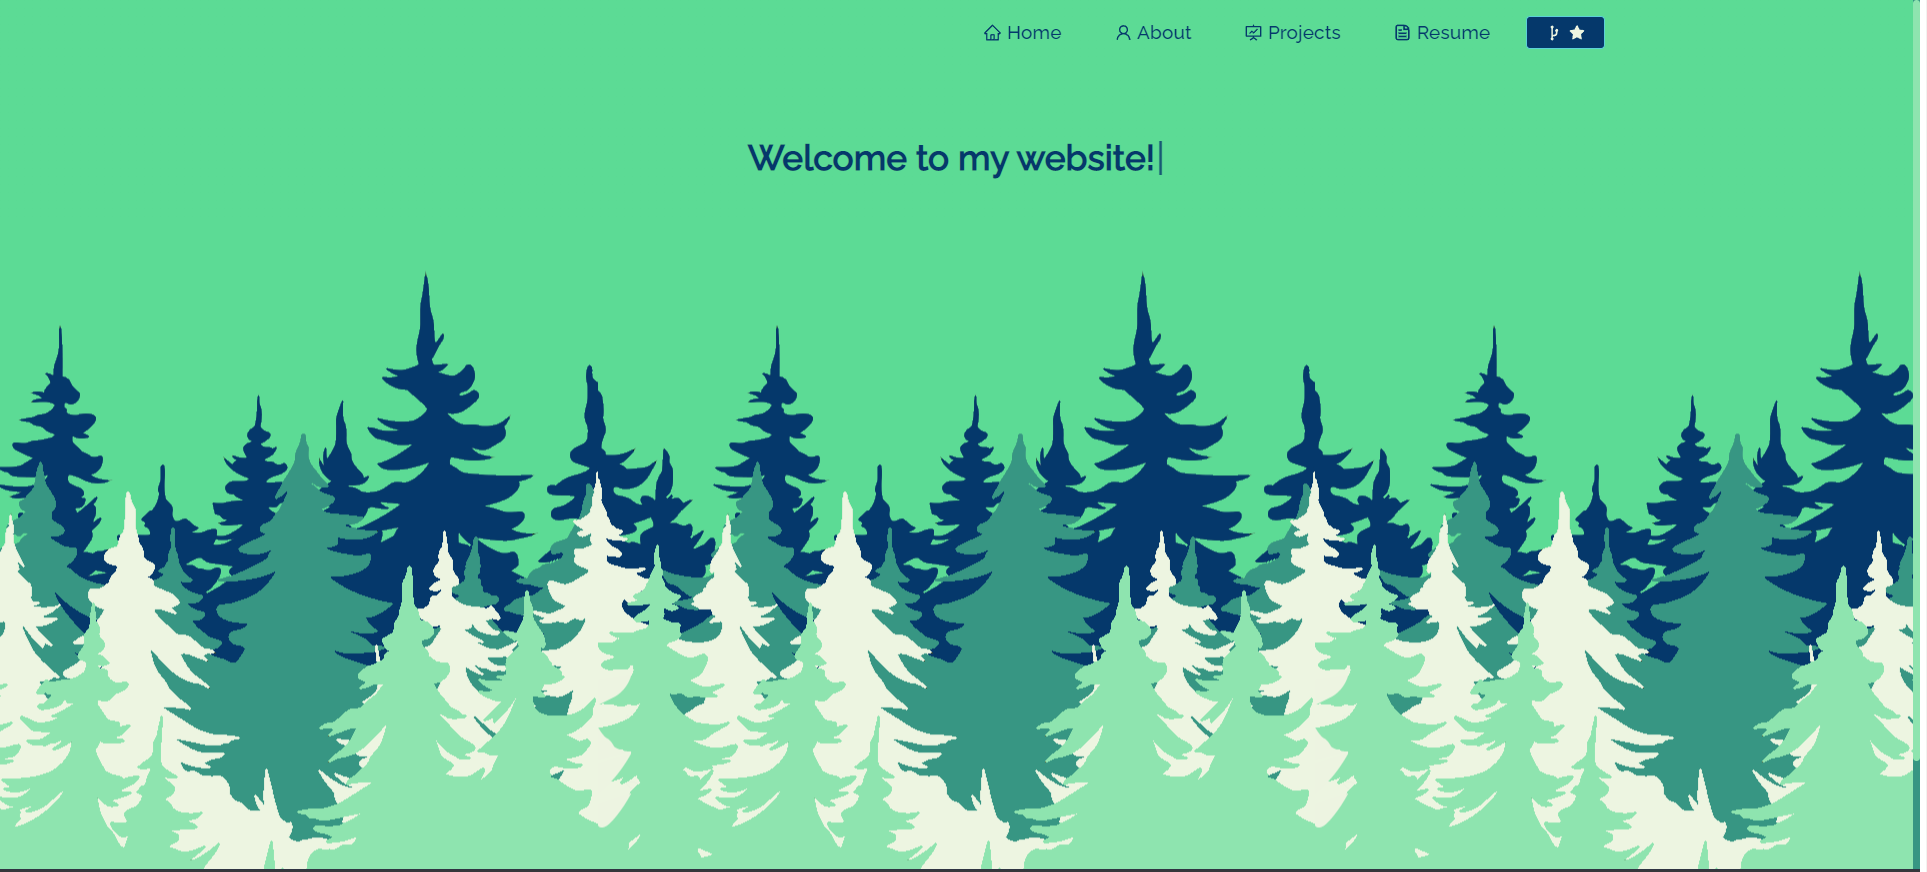
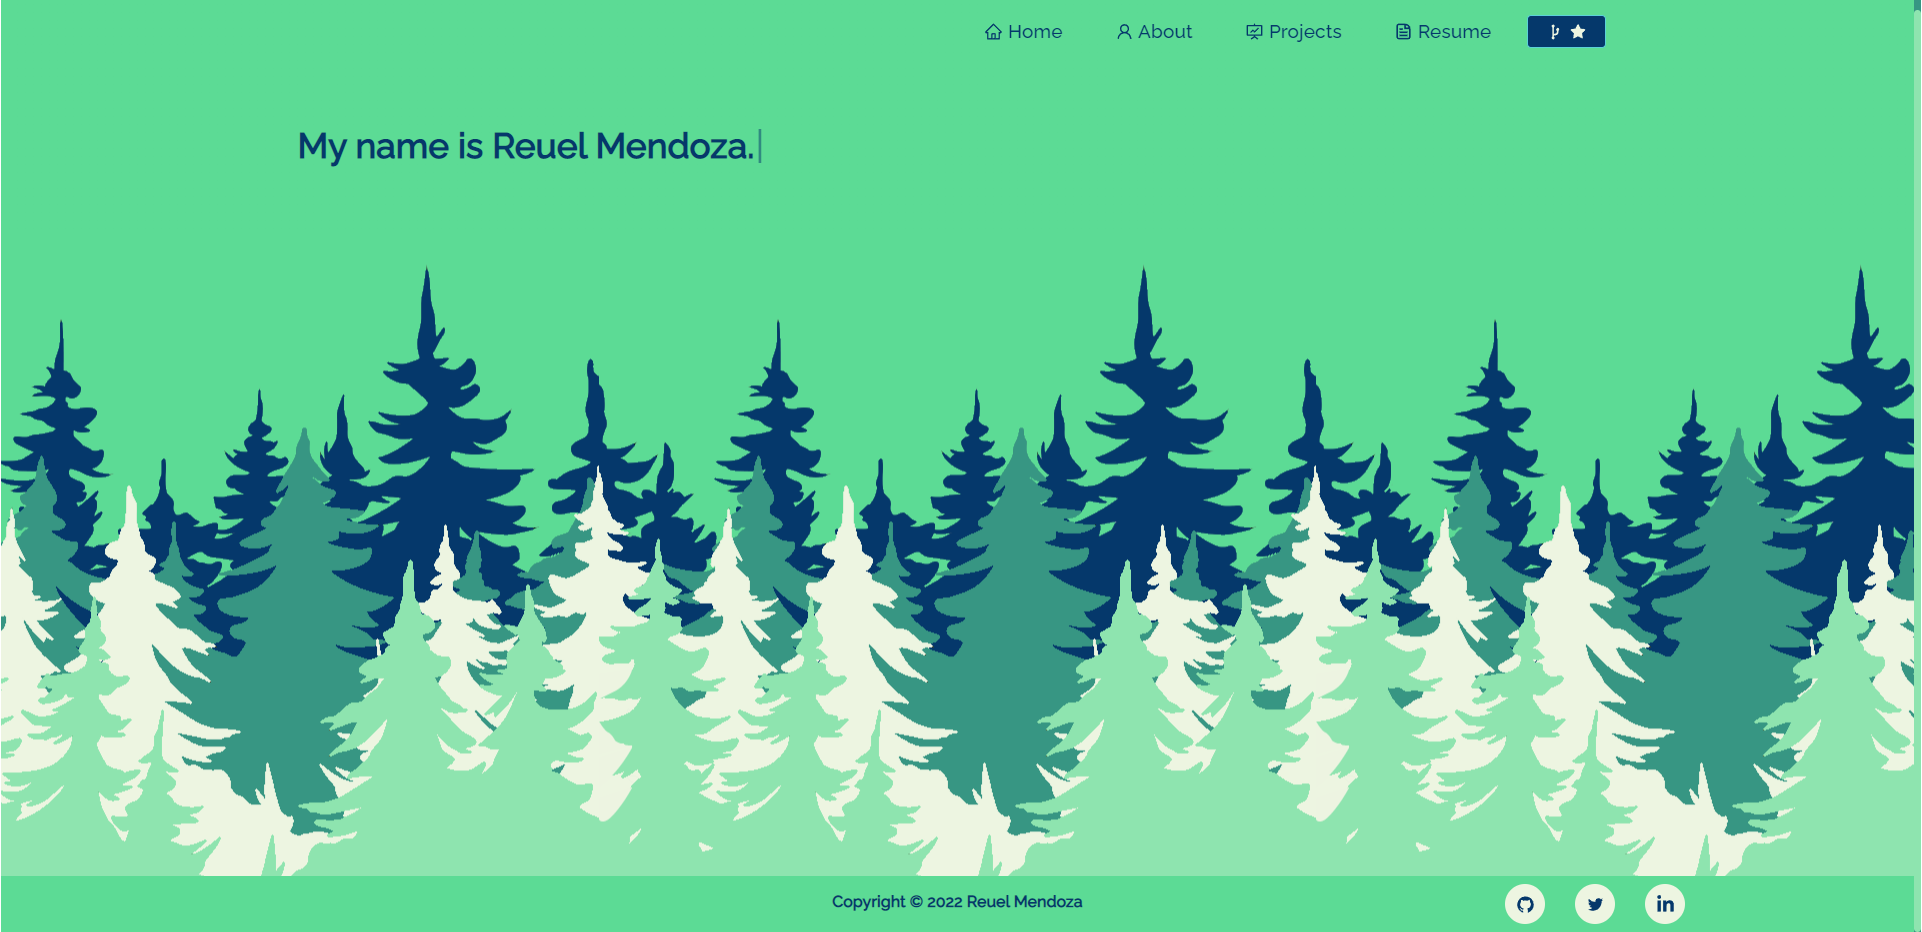
update

diff --git a/src/components/Home/Home.js b/src/components/Home/Home.js
@@ -2,6 +2,7 @@ import React from "react";
 import { Container, Row, Col } from "react-bootstrap";
 import homeLogo from "../../Assets/Trees.png";
 import Particle from "../Particle";
+import Footer from "../Footer";
 import Home2 from "./Home2";
 import Type from "./Type";
 
@@ -12,7 +13,7 @@ function Home() {
 
         <Container className="home-content">
           <Row>
-            <div style={{ textAlign: "center" }}>
+            <div style={{ textAlign: "left" }}>
               <Type />
             </div>
           </Row>
@@ -22,15 +23,14 @@ function Home() {
         
         
         </Container> 
-        <Row>
-        <Home2 />
-        </Row>
+        
       </Container>
       
-      
-
+    
 
     </section>
+     
+
   );
 }
 

diff --git a/src/components/Home/Home2.js b/src/components/Home/Home2.js
@@ -24,10 +24,22 @@ function Home2() {
        <br></br>
        <br></br>
        <br></br>
+       <br></br>
+       <br></br>
+       <br></br>
       
        
        <br></br>
        <br></br>
+       <br></br>
+       <br></br>
+       <br></br>
+       <br></br>
+       <br></br>
+       <br></br>
+       <br></br>
+
+       
        <br></br>
        <br></br>
        <br></br>
